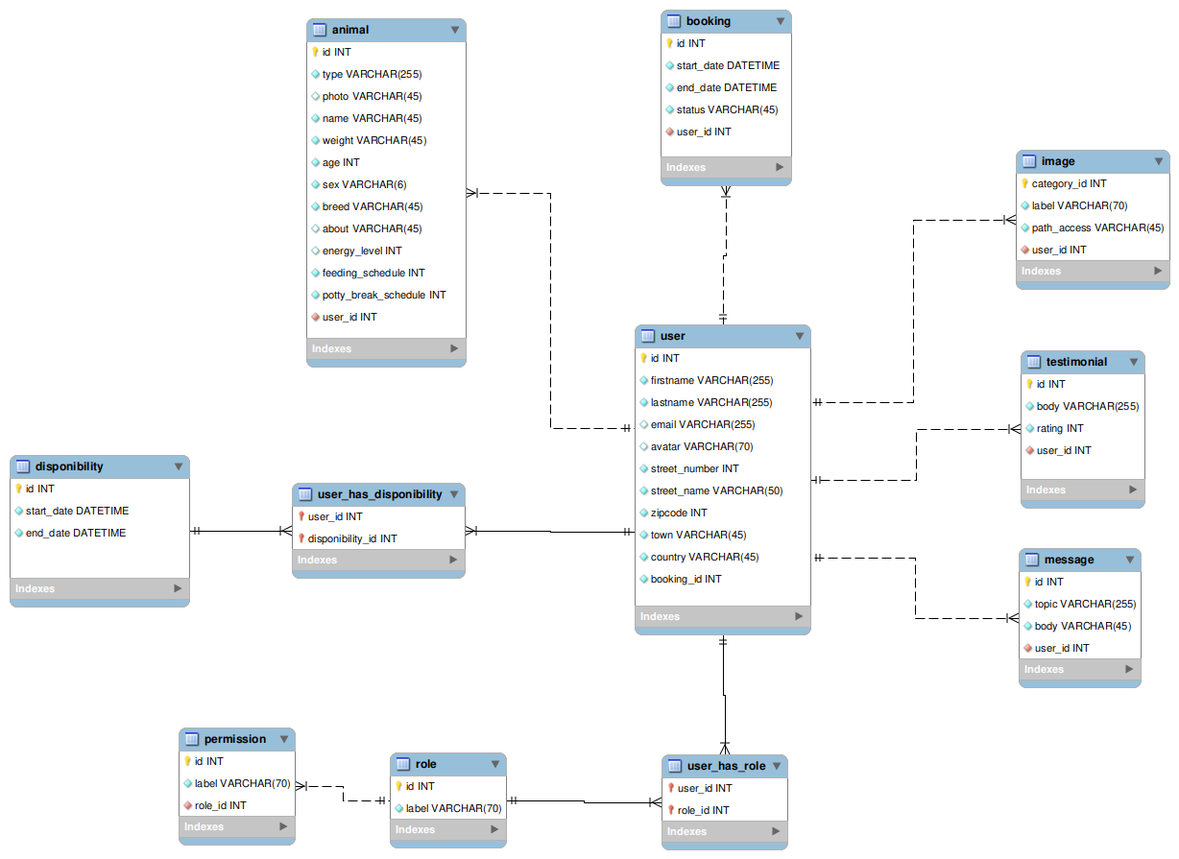
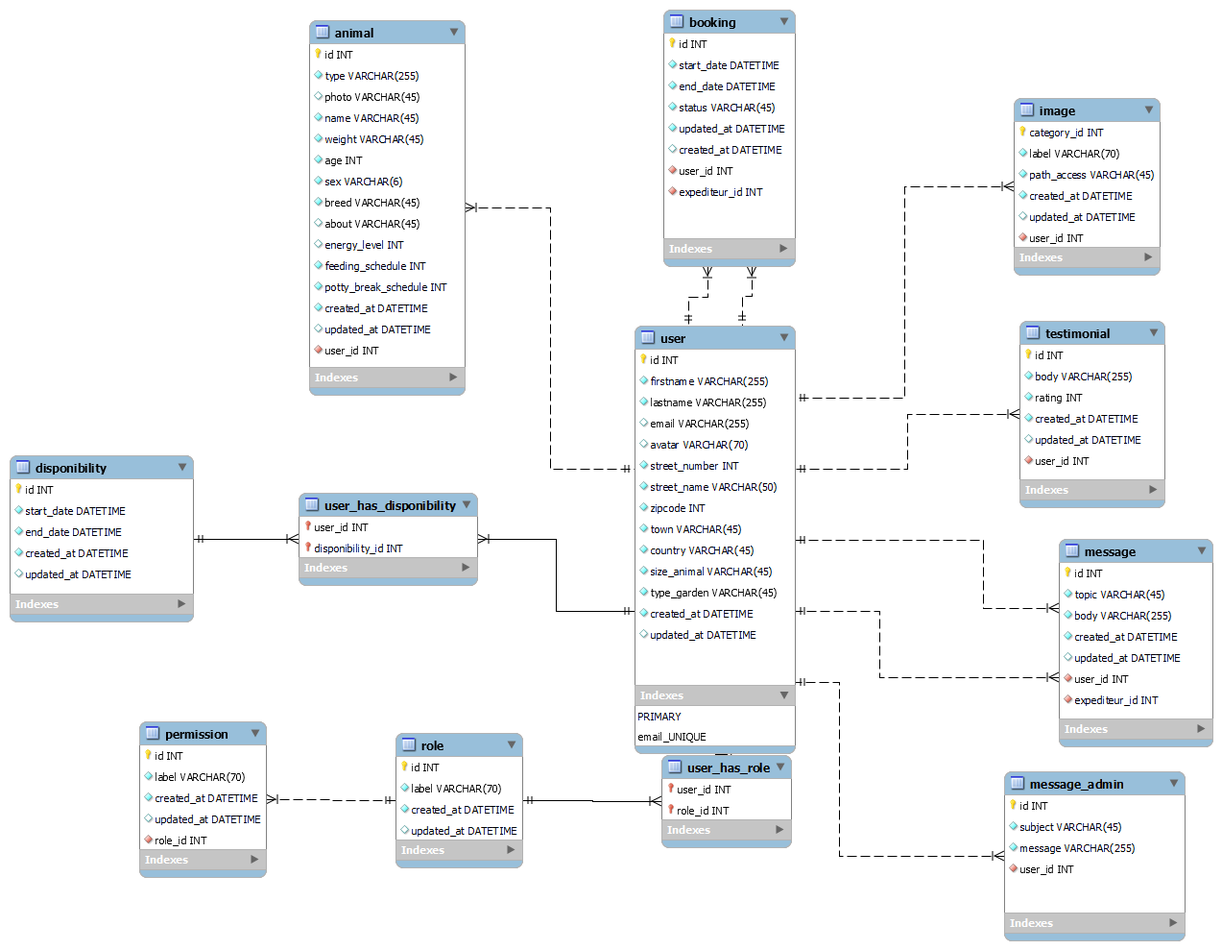
Parcours utilisateur modifié et route en cours

diff --git a/data/data-dictionary.html b/data/data-dictionary.html
@@ -1,0 +1,97 @@
+<!DOCTYPE html>
+<html lang="en">
+<head>
+  <meta charset="UTF-8">
+  <meta name="author" content="ChakibL">
+  <meta name="description" content="mydb Data Dictionary.">
+  <title>mydb Data Dictionary</title>
+  <script src="https://ajax.googleapis.com/ajax/libs/jquery/3.1.0/jquery.min.js"></script>
+  <script>
+    // Highlight table corresponding to the current fragment in the URL.
+    $(document).ready(function(){
+      $("a").click(function() {
+        var elem = $(this);
+        // Remove all classes from tables.
+        $("table").removeClass( "focused" )
+        // Get a.href value and extract its fragment id.
+        var id = elem.attr("href");
+        // Highlight table using fragment id.
+        $(id).addClass( "focused" );
+      });
+    });
+  </script>
+  <style type="text/css">
+    a {
+        text-decoration: none;
+    }
+    abbr {
+        cursor: help;
+    }
+    header {
+        color: #6A6A6A;
+        text-align: right;
+    }
+    table {
+        border-collapse: collapse;
+        margin-bottom: 30px;
+        width: 100%;
+    }
+    table caption {
+        font-size: 120%;
+        font-weight: bold;
+    }
+    table, td, th {
+        border-color: silver;
+        border-style: solid;
+        border-width: 1px;
+    }
+    caption {
+        color: black;
+    }
+    td, th {
+        padding: 1em;
+    }
+    tr:hover {
+        color: #333;
+        background-color: #F2F2F2;
+    }
+    th {
+        background-color: #F5F5F5;
+    }
+    td {
+        color: #6A6A6A;
+    }
+    ul {
+        font-style: italic;
+    }
+    .centered {
+        text-align: center;
+    }
+    .field {
+        color: #4C4C4C;
+        font-weight: bold;
+    }
+    .focused {
+        outline-color: aqua;
+        outline-style: solid;
+        outline-width: thin;
+    }
+  </style>
+</head>
+
+<body>
+  <header>
+    <h1>mydb<br> Data Dictionary</h1>
+    <p>
+      <em>2023-09-21</em>
+    </p>
+    <p>
+      <em></em>
+    </p>
+  </header>
+
+  <nav><h2>Index</h2><ul><li><a href='#animal'>animal</a></li><li><a href='#booking'>booking</a></li><li><a href='#disponibility'>disponibility</a></li><li><a href='#image'>image</a></li><li><a href='#message'>message</a></li><li><a href='#message_admin'>message_admin</a></li><li><a href='#permission'>permission</a></li><li><a href='#role'>role</a></li><li><a href='#testimonial'>testimonial</a></li><li><a href='#user'>user</a></li><li><a href='#user_has_disponibility'>user_has_disponibility</a></li><li><a href='#user_has_role'>user_has_role</a></li></ul></nav>
+
+  <div><table id='animal'><caption>animal</caption><tr><td colspan='12'></td></tr><tr><th>Column name</th><th>DataType</th><th><abbr title='Primary Key'>PK</abbr></th><th><abbr title='Foreign Key'>FK</abbr></th><th><abbr title='Not Null'>NN</abbr></th><th><abbr title='Unique'>UQ</abbr></th><th><abbr title='Binary'>BIN</abbr></th><th><abbr title='Unsigned'>UN</abbr></th><th><abbr title='Zero Fill'>ZF</abbr></th><th><abbr title='Auto Increment'>AI</abbr></th><th>Default</th><th>Comment</th></tr><tr><td class='field'>id</td><td>INT</td><td class='centered'>&#10004;</td><td class='centered'>&nbsp;</td><td class='centered'>&#10004;</td><td class='centered'>&nbsp;</td><td class='centered'>&nbsp;</td><td class='centered'>&nbsp;</td><td class='centered'>&nbsp;</td><td class='centered'>&#10004;</td><td></td><td></td></tr><tr><td class='field'>type</td><td>VARCHAR(255)</td><td class='centered'>&nbsp;</td><td class='centered'>&nbsp;</td><td class='centered'>&#10004;</td><td class='centered'>&nbsp;</td><td class='centered'>&nbsp;</td><td class='centered'>&nbsp;</td><td class='centered'>&nbsp;</td><td class='centered'>&nbsp;</td><td></td><td></td></tr><tr><td class='field'>photo</td><td>VARCHAR(45)</td><td class='centered'>&nbsp;</td><td class='centered'>&nbsp;</td><td class='centered'>&nbsp;</td><td class='centered'>&nbsp;</td><td class='centered'>&nbsp;</td><td class='centered'>&nbsp;</td><td class='centered'>&nbsp;</td><td class='centered'>&nbsp;</td><td></td><td></td></tr><tr><td class='field'>name</td><td>VARCHAR(45)</td><td class='centered'>&nbsp;</td><td class='centered'>&nbsp;</td><td class='centered'>&#10004;</td><td class='centered'>&nbsp;</td><td class='centered'>&nbsp;</td><td class='centered'>&nbsp;</td><td class='centered'>&nbsp;</td><td class='centered'>&nbsp;</td><td></td><td></td></tr><tr><td class='field'>weight</td><td>VARCHAR(45)</td><td class='centered'>&nbsp;</td><td class='centered'>&nbsp;</td><td class='centered'>&#10004;</td><td class='centered'>&nbsp;</td><td class='centered'>&nbsp;</td><td class='centered'>&nbsp;</td><td class='centered'>&nbsp;</td><td class='centered'>&nbsp;</td><td></td><td></td></tr><tr><td class='field'>age</td><td>DATE</td><td class='centered'>&nbsp;</td><td class='centered'>&nbsp;</td><td class='centered'>&#10004;</td><td class='centered'>&nbsp;</td><td class='centered'>&nbsp;</td><td class='centered'>&nbsp;</td><td class='centered'>&nbsp;</td><td class='centered'>&nbsp;</td><td></td><td></td></tr><tr><td class='field'>sex</td><td>VARCHAR(6)</td><td class='centered'>&nbsp;</td><td class='centered'>&nbsp;</td><td class='centered'>&#10004;</td><td class='centered'>&nbsp;</td><td class='centered'>&nbsp;</td><td class='centered'>&nbsp;</td><td class='centered'>&nbsp;</td><td class='centered'>&nbsp;</td><td></td><td></td></tr><tr><td class='field'>breed</td><td>VARCHAR(45)</td><td class='centered'>&nbsp;</td><td class='centered'>&nbsp;</td><td class='centered'>&#10004;</td><td class='centered'>&nbsp;</td><td class='centered'>&nbsp;</td><td class='centered'>&nbsp;</td><td class='centered'>&nbsp;</td><td class='centered'>&nbsp;</td><td></td><td>race</td></tr><tr><td class='field'>about</td><td>VARCHAR(45)</td><td class='centered'>&nbsp;</td><td class='centered'>&nbsp;</td><td class='centered'>&nbsp;</td><td class='centered'>&nbsp;</td><td class='centered'>&nbsp;</td><td class='centered'>&nbsp;</td><td class='centered'>&nbsp;</td><td class='centered'>&nbsp;</td><td></td><td></td></tr><tr><td class='field'>energy_level</td><td>INT</td><td class='centered'>&nbsp;</td><td class='centered'>&nbsp;</td><td class='centered'>&nbsp;</td><td class='centered'>&nbsp;</td><td class='centered'>&nbsp;</td><td class='centered'>&nbsp;</td><td class='centered'>&nbsp;</td><td class='centered'>&nbsp;</td><td></td><td></td></tr><tr><td class='field'>feeding_schedule</td><td>INT</td><td class='centered'>&nbsp;</td><td class='centered'>&nbsp;</td><td class='centered'>&#10004;</td><td class='centered'>&nbsp;</td><td class='centered'>&nbsp;</td><td class='centered'>&nbsp;</td><td class='centered'>&nbsp;</td><td class='centered'>&nbsp;</td><td></td><td></td></tr><tr><td class='field'>potty_break_schedule</td><td>INT</td><td class='centered'>&nbsp;</td><td class='centered'>&nbsp;</td><td class='centered'>&#10004;</td><td class='centered'>&nbsp;</td><td class='centered'>&nbsp;</td><td class='centered'>&nbsp;</td><td class='centered'>&nbsp;</td><td class='centered'>&nbsp;</td><td></td><td></td></tr><tr><td class='field'>created_at</td><td>DATETIME</td><td class='centered'>&nbsp;</td><td class='centered'>&nbsp;</td><td class='centered'>&#10004;</td><td class='centered'>&nbsp;</td><td class='centered'>&nbsp;</td><td class='centered'>&nbsp;</td><td class='centered'>&nbsp;</td><td class='centered'>&nbsp;</td><td></td><td></td></tr><tr><td class='field'>updated_at</td><td>DATETIME</td><td class='centered'>&nbsp;</td><td class='centered'>&nbsp;</td><td class='centered'>&nbsp;</td><td class='centered'>&nbsp;</td><td class='centered'>&nbsp;</td><td class='centered'>&nbsp;</td><td class='centered'>&nbsp;</td><td class='centered'>&nbsp;</td><td></td><td></td></tr><tr><td class='field'>user_id</td><td>INT</td><td class='centered'>&nbsp;</td><td class='centered'><a href='#user'>&#10004;</a></td><td class='centered'>&#10004;</td><td class='centered'>&nbsp;</td><td class='centered'>&nbsp;</td><td class='centered'>&nbsp;</td><td class='centered'>&nbsp;</td><td class='centered'>&nbsp;</td><td></td><td></td></tr></table><table id='booking'><caption>booking</caption><tr><td colspan='12'></td></tr><tr><th>Column name</th><th>DataType</th><th><abbr title='Primary Key'>PK</abbr></th><th><abbr title='Foreign Key'>FK</abbr></th><th><abbr title='Not Null'>NN</abbr></th><th><abbr title='Unique'>UQ</abbr></th><th><abbr title='Binary'>BIN</abbr></th><th><abbr title='Unsigned'>UN</abbr></th><th><abbr title='Zero Fill'>ZF</abbr></th><th><abbr title='Auto Increment'>AI</abbr></th><th>Default</th><th>Comment</th></tr><tr><td class='field'>id</td><td>INT</td><td class='centered'>&#10004;</td><td class='centered'>&nbsp;</td><td class='centered'>&#10004;</td><td class='centered'>&nbsp;</td><td class='centered'>&nbsp;</td><td class='centered'>&nbsp;</td><td class='centered'>&nbsp;</td><td class='centered'>&#10004;</td><td></td><td></td></tr><tr><td class='field'>start_date</td><td>DATETIME</td><td class='centered'>&nbsp;</td><td class='centered'>&nbsp;</td><td class='centered'>&#10004;</td><td class='centered'>&nbsp;</td><td class='centered'>&nbsp;</td><td class='centered'>&nbsp;</td><td class='centered'>&nbsp;</td><td class='centered'>&nbsp;</td><td></td><td></td></tr><tr><td class='field'>end_date</td><td>DATETIME</td><td class='centered'>&nbsp;</td><td class='centered'>&nbsp;</td><td class='centered'>&#10004;</td><td class='centered'>&nbsp;</td><td class='centered'>&nbsp;</td><td class='centered'>&nbsp;</td><td class='centered'>&nbsp;</td><td class='centered'>&nbsp;</td><td></td><td></td></tr><tr><td class='field'>status</td><td>VARCHAR(45)</td><td class='centered'>&nbsp;</td><td class='centered'>&nbsp;</td><td class='centered'>&#10004;</td><td class='centered'>&nbsp;</td><td class='centered'>&nbsp;</td><td class='centered'>&nbsp;</td><td class='centered'>&nbsp;</td><td class='centered'>&nbsp;</td><td></td><td></td></tr><tr><td class='field'>updated_at</td><td>DATETIME</td><td class='centered'>&nbsp;</td><td class='centered'>&nbsp;</td><td class='centered'>&#10004;</td><td class='centered'>&nbsp;</td><td class='centered'>&nbsp;</td><td class='centered'>&nbsp;</td><td class='centered'>&nbsp;</td><td class='centered'>&nbsp;</td><td></td><td></td></tr><tr><td class='field'>created_at</td><td>DATETIME</td><td class='centered'>&nbsp;</td><td class='centered'>&nbsp;</td><td class='centered'>&nbsp;</td><td class='centered'>&nbsp;</td><td class='centered'>&nbsp;</td><td class='centered'>&nbsp;</td><td class='centered'>&nbsp;</td><td class='centered'>&nbsp;</td><td></td><td></td></tr><tr><td class='field'>user_id</td><td>INT</td><td class='centered'>&nbsp;</td><td class='centered'><a href='#user'>&#10004;</a></td><td class='centered'>&#10004;</td><td class='centered'>&nbsp;</td><td class='centered'>&nbsp;</td><td class='centered'>&nbsp;</td><td class='centered'>&nbsp;</td><td class='centered'>&nbsp;</td><td></td><td></td></tr><tr><td class='field'>sender_id</td><td>INT</td><td class='centered'>&nbsp;</td><td class='centered'><a href='#sender'>&#10004;</a></td><td class='centered'>&#10004;</td><td class='centered'>&nbsp;</td><td class='centered'>&nbsp;</td><td class='centered'>&nbsp;</td><td class='centered'>&nbsp;</td><td class='centered'>&nbsp;</td><td></td><td></td></tr></table><table id='disponibility'><caption>disponibility</caption><tr><td colspan='12'></td></tr><tr><th>Column name</th><th>DataType</th><th><abbr title='Primary Key'>PK</abbr></th><th><abbr title='Foreign Key'>FK</abbr></th><th><abbr title='Not Null'>NN</abbr></th><th><abbr title='Unique'>UQ</abbr></th><th><abbr title='Binary'>BIN</abbr></th><th><abbr title='Unsigned'>UN</abbr></th><th><abbr title='Zero Fill'>ZF</abbr></th><th><abbr title='Auto Increment'>AI</abbr></th><th>Default</th><th>Comment</th></tr><tr><td class='field'>id</td><td>INT</td><td class='centered'>&#10004;</td><td class='centered'>&nbsp;</td><td class='centered'>&#10004;</td><td class='centered'>&nbsp;</td><td class='centered'>&nbsp;</td><td class='centered'>&nbsp;</td><td class='centered'>&nbsp;</td><td class='centered'>&#10004;</td><td></td><td></td></tr><tr><td class='field'>start_date</td><td>DATETIME</td><td class='centered'>&nbsp;</td><td class='centered'>&nbsp;</td><td class='centered'>&#10004;</td><td class='centered'>&nbsp;</td><td class='centered'>&nbsp;</td><td class='centered'>&nbsp;</td><td class='centered'>&nbsp;</td><td class='centered'>&nbsp;</td><td></td><td></td></tr><tr><td class='field'>end_date</td><td>DATETIME</td><td class='centered'>&nbsp;</td><td class='centered'>&nbsp;</td><td class='centered'>&#10004;</td><td class='centered'>&nbsp;</td><td class='centered'>&nbsp;</td><td class='centered'>&nbsp;</td><td class='centered'>&nbsp;</td><td class='centered'>&nbsp;</td><td></td><td></td></tr><tr><td class='field'>created_at</td><td>DATETIME</td><td class='centered'>&nbsp;</td><td class='centered'>&nbsp;</td><td class='centered'>&#10004;</td><td class='centered'>&nbsp;</td><td class='centered'>&nbsp;</td><td class='centered'>&nbsp;</td><td class='centered'>&nbsp;</td><td class='centered'>&nbsp;</td><td></td><td></td></tr><tr><td class='field'>updated_at</td><td>DATETIME</td><td class='centered'>&nbsp;</td><td class='centered'>&nbsp;</td><td class='centered'>&nbsp;</td><td class='centered'>&nbsp;</td><td class='centered'>&nbsp;</td><td class='centered'>&nbsp;</td><td class='centered'>&nbsp;</td><td class='centered'>&nbsp;</td><td></td><td></td></tr></table><table id='image'><caption>image</caption><tr><td colspan='12'></td></tr><tr><th>Column name</th><th>DataType</th><th><abbr title='Primary Key'>PK</abbr></th><th><abbr title='Foreign Key'>FK</abbr></th><th><abbr title='Not Null'>NN</abbr></th><th><abbr title='Unique'>UQ</abbr></th><th><abbr title='Binary'>BIN</abbr></th><th><abbr title='Unsigned'>UN</abbr></th><th><abbr title='Zero Fill'>ZF</abbr></th><th><abbr title='Auto Increment'>AI</abbr></th><th>Default</th><th>Comment</th></tr><tr><td class='field'>category_id</td><td>INT</td><td class='centered'>&#10004;</td><td class='centered'>&nbsp;</td><td class='centered'>&#10004;</td><td class='centered'>&nbsp;</td><td class='centered'>&nbsp;</td><td class='centered'>&nbsp;</td><td class='centered'>&nbsp;</td><td class='centered'>&#10004;</td><td></td><td></td></tr><tr><td class='field'>label</td><td>VARCHAR(70)</td><td class='centered'>&nbsp;</td><td class='centered'>&nbsp;</td><td class='centered'>&#10004;</td><td class='centered'>&nbsp;</td><td class='centered'>&nbsp;</td><td class='centered'>&nbsp;</td><td class='centered'>&nbsp;</td><td class='centered'>&nbsp;</td><td></td><td></td></tr><tr><td class='field'>path_access</td><td>VARCHAR(45)</td><td class='centered'>&nbsp;</td><td class='centered'>&nbsp;</td><td class='centered'>&#10004;</td><td class='centered'>&nbsp;</td><td class='centered'>&nbsp;</td><td class='centered'>&nbsp;</td><td class='centered'>&nbsp;</td><td class='centered'>&nbsp;</td><td></td><td></td></tr><tr><td class='field'>created_at</td><td>DATETIME</td><td class='centered'>&nbsp;</td><td class='centered'>&nbsp;</td><td class='centered'>&#10004;</td><td class='centered'>&nbsp;</td><td class='centered'>&nbsp;</td><td class='centered'>&nbsp;</td><td class='centered'>&nbsp;</td><td class='centered'>&nbsp;</td><td></td><td></td></tr><tr><td class='field'>updated_at</td><td>DATETIME</td><td class='centered'>&nbsp;</td><td class='centered'>&nbsp;</td><td class='centered'>&nbsp;</td><td class='centered'>&nbsp;</td><td class='centered'>&nbsp;</td><td class='centered'>&nbsp;</td><td class='centered'>&nbsp;</td><td class='centered'>&nbsp;</td><td></td><td></td></tr><tr><td class='field'>user_id</td><td>INT</td><td class='centered'>&nbsp;</td><td class='centered'><a href='#user'>&#10004;</a></td><td class='centered'>&#10004;</td><td class='centered'>&nbsp;</td><td class='centered'>&nbsp;</td><td class='centered'>&nbsp;</td><td class='centered'>&nbsp;</td><td class='centered'>&nbsp;</td><td></td><td></td></tr></table><table id='message'><caption>message</caption><tr><td colspan='12'></td></tr><tr><th>Column name</th><th>DataType</th><th><abbr title='Primary Key'>PK</abbr></th><th><abbr title='Foreign Key'>FK</abbr></th><th><abbr title='Not Null'>NN</abbr></th><th><abbr title='Unique'>UQ</abbr></th><th><abbr title='Binary'>BIN</abbr></th><th><abbr title='Unsigned'>UN</abbr></th><th><abbr title='Zero Fill'>ZF</abbr></th><th><abbr title='Auto Increment'>AI</abbr></th><th>Default</th><th>Comment</th></tr><tr><td class='field'>id</td><td>INT</td><td class='centered'>&#10004;</td><td class='centered'>&nbsp;</td><td class='centered'>&#10004;</td><td class='centered'>&nbsp;</td><td class='centered'>&nbsp;</td><td class='centered'>&nbsp;</td><td class='centered'>&nbsp;</td><td class='centered'>&#10004;</td><td></td><td></td></tr><tr><td class='field'>topic</td><td>VARCHAR(45)</td><td class='centered'>&nbsp;</td><td class='centered'>&nbsp;</td><td class='centered'>&#10004;</td><td class='centered'>&nbsp;</td><td class='centered'>&nbsp;</td><td class='centered'>&nbsp;</td><td class='centered'>&nbsp;</td><td class='centered'>&nbsp;</td><td></td><td></td></tr><tr><td class='field'>body</td><td>LONGTEXT</td><td class='centered'>&nbsp;</td><td class='centered'>&nbsp;</td><td class='centered'>&#10004;</td><td class='centered'>&nbsp;</td><td class='centered'>&nbsp;</td><td class='centered'>&nbsp;</td><td class='centered'>&nbsp;</td><td class='centered'>&nbsp;</td><td></td><td></td></tr><tr><td class='field'>created_at</td><td>DATETIME</td><td class='centered'>&nbsp;</td><td class='centered'>&nbsp;</td><td class='centered'>&#10004;</td><td class='centered'>&nbsp;</td><td class='centered'>&nbsp;</td><td class='centered'>&nbsp;</td><td class='centered'>&nbsp;</td><td class='centered'>&nbsp;</td><td></td><td></td></tr><tr><td class='field'>updated_at</td><td>DATETIME</td><td class='centered'>&nbsp;</td><td class='centered'>&nbsp;</td><td class='centered'>&nbsp;</td><td class='centered'>&nbsp;</td><td class='centered'>&nbsp;</td><td class='centered'>&nbsp;</td><td class='centered'>&nbsp;</td><td class='centered'>&nbsp;</td><td></td><td></td></tr><tr><td class='field'>user_id</td><td>INT</td><td class='centered'>&nbsp;</td><td class='centered'><a href='#user'>&#10004;</a></td><td class='centered'>&#10004;</td><td class='centered'>&nbsp;</td><td class='centered'>&nbsp;</td><td class='centered'>&nbsp;</td><td class='centered'>&nbsp;</td><td class='centered'>&nbsp;</td><td></td><td></td></tr><tr><td class='field'>sender_id</td><td>INT</td><td class='centered'>&nbsp;</td><td class='centered'><a href='#sender'>&#10004;</a></td><td class='centered'>&#10004;</td><td class='centered'>&nbsp;</td><td class='centered'>&nbsp;</td><td class='centered'>&nbsp;</td><td class='centered'>&nbsp;</td><td class='centered'>&nbsp;</td><td></td><td></td></tr></table><table id='message_admin'><caption>message_admin</caption><tr><td colspan='12'></td></tr><tr><th>Column name</th><th>DataType</th><th><abbr title='Primary Key'>PK</abbr></th><th><abbr title='Foreign Key'>FK</abbr></th><th><abbr title='Not Null'>NN</abbr></th><th><abbr title='Unique'>UQ</abbr></th><th><abbr title='Binary'>BIN</abbr></th><th><abbr title='Unsigned'>UN</abbr></th><th><abbr title='Zero Fill'>ZF</abbr></th><th><abbr title='Auto Increment'>AI</abbr></th><th>Default</th><th>Comment</th></tr><tr><td class='field'>id</td><td>INT</td><td class='centered'>&#10004;</td><td class='centered'>&nbsp;</td><td class='centered'>&#10004;</td><td class='centered'>&nbsp;</td><td class='centered'>&nbsp;</td><td class='centered'>&nbsp;</td><td class='centered'>&nbsp;</td><td class='centered'>&#10004;</td><td></td><td></td></tr><tr><td class='field'>subject</td><td>VARCHAR(45)</td><td class='centered'>&nbsp;</td><td class='centered'>&nbsp;</td><td class='centered'>&#10004;</td><td class='centered'>&nbsp;</td><td class='centered'>&nbsp;</td><td class='centered'>&nbsp;</td><td class='centered'>&nbsp;</td><td class='centered'>&nbsp;</td><td></td><td></td></tr><tr><td class='field'>message</td><td>LONGTEXT</td><td class='centered'>&nbsp;</td><td class='centered'>&nbsp;</td><td class='centered'>&#10004;</td><td class='centered'>&nbsp;</td><td class='centered'>&nbsp;</td><td class='centered'>&nbsp;</td><td class='centered'>&nbsp;</td><td class='centered'>&nbsp;</td><td></td><td></td></tr><tr><td class='field'>user_id</td><td>INT</td><td class='centered'>&nbsp;</td><td class='centered'><a href='#user'>&#10004;</a></td><td class='centered'>&#10004;</td><td class='centered'>&nbsp;</td><td class='centered'>&nbsp;</td><td class='centered'>&nbsp;</td><td class='centered'>&nbsp;</td><td class='centered'>&nbsp;</td><td></td><td></td></tr></table><table id='permission'><caption>permission</caption><tr><td colspan='12'></td></tr><tr><th>Column name</th><th>DataType</th><th><abbr title='Primary Key'>PK</abbr></th><th><abbr title='Foreign Key'>FK</abbr></th><th><abbr title='Not Null'>NN</abbr></th><th><abbr title='Unique'>UQ</abbr></th><th><abbr title='Binary'>BIN</abbr></th><th><abbr title='Unsigned'>UN</abbr></th><th><abbr title='Zero Fill'>ZF</abbr></th><th><abbr title='Auto Increment'>AI</abbr></th><th>Default</th><th>Comment</th></tr><tr><td class='field'>id</td><td>INT</td><td class='centered'>&#10004;</td><td class='centered'>&nbsp;</td><td class='centered'>&#10004;</td><td class='centered'>&nbsp;</td><td class='centered'>&nbsp;</td><td class='centered'>&nbsp;</td><td class='centered'>&nbsp;</td><td class='centered'>&#10004;</td><td></td><td></td></tr><tr><td class='field'>label</td><td>VARCHAR(70)</td><td class='centered'>&nbsp;</td><td class='centered'>&nbsp;</td><td class='centered'>&#10004;</td><td class='centered'>&nbsp;</td><td class='centered'>&nbsp;</td><td class='centered'>&nbsp;</td><td class='centered'>&nbsp;</td><td class='centered'>&nbsp;</td><td></td><td></td></tr><tr><td class='field'>created_at</td><td>DATETIME</td><td class='centered'>&nbsp;</td><td class='centered'>&nbsp;</td><td class='centered'>&#10004;</td><td class='centered'>&nbsp;</td><td class='centered'>&nbsp;</td><td class='centered'>&nbsp;</td><td class='centered'>&nbsp;</td><td class='centered'>&nbsp;</td><td></td><td></td></tr><tr><td class='field'>updated_at</td><td>DATETIME</td><td class='centered'>&nbsp;</td><td class='centered'>&nbsp;</td><td class='centered'>&nbsp;</td><td class='centered'>&nbsp;</td><td class='centered'>&nbsp;</td><td class='centered'>&nbsp;</td><td class='centered'>&nbsp;</td><td class='centered'>&nbsp;</td><td></td><td></td></tr><tr><td class='field'>role_id</td><td>INT</td><td class='centered'>&nbsp;</td><td class='centered'><a href='#role'>&#10004;</a></td><td class='centered'>&#10004;</td><td class='centered'>&nbsp;</td><td class='centered'>&nbsp;</td><td class='centered'>&nbsp;</td><td class='centered'>&nbsp;</td><td class='centered'>&nbsp;</td><td></td><td></td></tr></table><table id='role'><caption>role</caption><tr><td colspan='12'></td></tr><tr><th>Column name</th><th>DataType</th><th><abbr title='Primary Key'>PK</abbr></th><th><abbr title='Foreign Key'>FK</abbr></th><th><abbr title='Not Null'>NN</abbr></th><th><abbr title='Unique'>UQ</abbr></th><th><abbr title='Binary'>BIN</abbr></th><th><abbr title='Unsigned'>UN</abbr></th><th><abbr title='Zero Fill'>ZF</abbr></th><th><abbr title='Auto Increment'>AI</abbr></th><th>Default</th><th>Comment</th></tr><tr><td class='field'>id</td><td>INT</td><td class='centered'>&#10004;</td><td class='centered'>&nbsp;</td><td class='centered'>&#10004;</td><td class='centered'>&nbsp;</td><td class='centered'>&nbsp;</td><td class='centered'>&nbsp;</td><td class='centered'>&nbsp;</td><td class='centered'>&#10004;</td><td></td><td></td></tr><tr><td class='field'>label</td><td>VARCHAR(70)</td><td class='centered'>&nbsp;</td><td class='centered'>&nbsp;</td><td class='centered'>&#10004;</td><td class='centered'>&nbsp;</td><td class='centered'>&nbsp;</td><td class='centered'>&nbsp;</td><td class='centered'>&nbsp;</td><td class='centered'>&nbsp;</td><td></td><td></td></tr><tr><td class='field'>created_at</td><td>DATETIME</td><td class='centered'>&nbsp;</td><td class='centered'>&nbsp;</td><td class='centered'>&#10004;</td><td class='centered'>&nbsp;</td><td class='centered'>&nbsp;</td><td class='centered'>&nbsp;</td><td class='centered'>&nbsp;</td><td class='centered'>&nbsp;</td><td></td><td></td></tr><tr><td class='field'>updated_at</td><td>DATETIME</td><td class='centered'>&nbsp;</td><td class='centered'>&nbsp;</td><td class='centered'>&nbsp;</td><td class='centered'>&nbsp;</td><td class='centered'>&nbsp;</td><td class='centered'>&nbsp;</td><td class='centered'>&nbsp;</td><td class='centered'>&nbsp;</td><td></td><td></td></tr></table><table id='testimonial'><caption>testimonial</caption><tr><td colspan='12'></td></tr><tr><th>Column name</th><th>DataType</th><th><abbr title='Primary Key'>PK</abbr></th><th><abbr title='Foreign Key'>FK</abbr></th><th><abbr title='Not Null'>NN</abbr></th><th><abbr title='Unique'>UQ</abbr></th><th><abbr title='Binary'>BIN</abbr></th><th><abbr title='Unsigned'>UN</abbr></th><th><abbr title='Zero Fill'>ZF</abbr></th><th><abbr title='Auto Increment'>AI</abbr></th><th>Default</th><th>Comment</th></tr><tr><td class='field'>id</td><td>INT</td><td class='centered'>&#10004;</td><td class='centered'>&nbsp;</td><td class='centered'>&#10004;</td><td class='centered'>&nbsp;</td><td class='centered'>&nbsp;</td><td class='centered'>&nbsp;</td><td class='centered'>&nbsp;</td><td class='centered'>&#10004;</td><td></td><td></td></tr><tr><td class='field'>body</td><td>VARCHAR(255)</td><td class='centered'>&nbsp;</td><td class='centered'>&nbsp;</td><td class='centered'>&#10004;</td><td class='centered'>&nbsp;</td><td class='centered'>&nbsp;</td><td class='centered'>&nbsp;</td><td class='centered'>&nbsp;</td><td class='centered'>&nbsp;</td><td></td><td></td></tr><tr><td class='field'>rating</td><td>INT</td><td class='centered'>&nbsp;</td><td class='centered'>&nbsp;</td><td class='centered'>&#10004;</td><td class='centered'>&nbsp;</td><td class='centered'>&nbsp;</td><td class='centered'>&nbsp;</td><td class='centered'>&nbsp;</td><td class='centered'>&nbsp;</td><td></td><td></td></tr><tr><td class='field'>created_at</td><td>DATETIME</td><td class='centered'>&nbsp;</td><td class='centered'>&nbsp;</td><td class='centered'>&#10004;</td><td class='centered'>&nbsp;</td><td class='centered'>&nbsp;</td><td class='centered'>&nbsp;</td><td class='centered'>&nbsp;</td><td class='centered'>&nbsp;</td><td></td><td></td></tr><tr><td class='field'>updated_at</td><td>DATETIME</td><td class='centered'>&nbsp;</td><td class='centered'>&nbsp;</td><td class='centered'>&nbsp;</td><td class='centered'>&nbsp;</td><td class='centered'>&nbsp;</td><td class='centered'>&nbsp;</td><td class='centered'>&nbsp;</td><td class='centered'>&nbsp;</td><td></td><td></td></tr><tr><td class='field'>user_id</td><td>INT</td><td class='centered'>&nbsp;</td><td class='centered'><a href='#user'>&#10004;</a></td><td class='centered'>&#10004;</td><td class='centered'>&nbsp;</td><td class='centered'>&nbsp;</td><td class='centered'>&nbsp;</td><td class='centered'>&nbsp;</td><td class='centered'>&nbsp;</td><td></td><td></td></tr></table><table id='user'><caption>user</caption><tr><td colspan='12'></td></tr><tr><th>Column name</th><th>DataType</th><th><abbr title='Primary Key'>PK</abbr></th><th><abbr title='Foreign Key'>FK</abbr></th><th><abbr title='Not Null'>NN</abbr></th><th><abbr title='Unique'>UQ</abbr></th><th><abbr title='Binary'>BIN</abbr></th><th><abbr title='Unsigned'>UN</abbr></th><th><abbr title='Zero Fill'>ZF</abbr></th><th><abbr title='Auto Increment'>AI</abbr></th><th>Default</th><th>Comment</th></tr><tr><td class='field'>id</td><td>INT</td><td class='centered'>&#10004;</td><td class='centered'>&nbsp;</td><td class='centered'>&#10004;</td><td class='centered'>&nbsp;</td><td class='centered'>&nbsp;</td><td class='centered'>&nbsp;</td><td class='centered'>&nbsp;</td><td class='centered'>&#10004;</td><td></td><td></td></tr><tr><td class='field'>firstname</td><td>VARCHAR(255)</td><td class='centered'>&nbsp;</td><td class='centered'>&nbsp;</td><td class='centered'>&#10004;</td><td class='centered'>&nbsp;</td><td class='centered'>&nbsp;</td><td class='centered'>&nbsp;</td><td class='centered'>&nbsp;</td><td class='centered'>&nbsp;</td><td></td><td></td></tr><tr><td class='field'>lastname</td><td>VARCHAR(255)</td><td class='centered'>&nbsp;</td><td class='centered'>&nbsp;</td><td class='centered'>&#10004;</td><td class='centered'>&nbsp;</td><td class='centered'>&nbsp;</td><td class='centered'>&nbsp;</td><td class='centered'>&nbsp;</td><td class='centered'>&nbsp;</td><td></td><td></td></tr><tr><td class='field'>email</td><td>VARCHAR(255)</td><td class='centered'>&nbsp;</td><td class='centered'>&nbsp;</td><td class='centered'>&nbsp;</td><td class='centered'>&#10004;</td><td class='centered'>&nbsp;</td><td class='centered'>&nbsp;</td><td class='centered'>&nbsp;</td><td class='centered'>&nbsp;</td><td>CURRENT_TIMESTAMP</td><td></td></tr><tr><td class='field'>birth_date</td><td>DATE</td><td class='centered'>&nbsp;</td><td class='centered'>&nbsp;</td><td class='centered'>&#10004;</td><td class='centered'>&nbsp;</td><td class='centered'>&nbsp;</td><td class='centered'>&nbsp;</td><td class='centered'>&nbsp;</td><td class='centered'>&nbsp;</td><td></td><td></td></tr><tr><td class='field'>avatar</td><td>VARCHAR(70)</td><td class='centered'>&nbsp;</td><td class='centered'>&nbsp;</td><td class='centered'>&nbsp;</td><td class='centered'>&nbsp;</td><td class='centered'>&nbsp;</td><td class='centered'>&nbsp;</td><td class='centered'>&nbsp;</td><td class='centered'>&nbsp;</td><td></td><td></td></tr><tr><td class='field'>street_number</td><td>INT</td><td class='centered'>&nbsp;</td><td class='centered'>&nbsp;</td><td class='centered'>&#10004;</td><td class='centered'>&nbsp;</td><td class='centered'>&nbsp;</td><td class='centered'>&nbsp;</td><td class='centered'>&nbsp;</td><td class='centered'>&nbsp;</td><td></td><td></td></tr><tr><td class='field'>street_name</td><td>VARCHAR(50)</td><td class='centered'>&nbsp;</td><td class='centered'>&nbsp;</td><td class='centered'>&#10004;</td><td class='centered'>&nbsp;</td><td class='centered'>&nbsp;</td><td class='centered'>&nbsp;</td><td class='centered'>&nbsp;</td><td class='centered'>&nbsp;</td><td></td><td></td></tr><tr><td class='field'>zipcode</td><td>INT</td><td class='centered'>&nbsp;</td><td class='centered'>&nbsp;</td><td class='centered'>&#10004;</td><td class='centered'>&nbsp;</td><td class='centered'>&nbsp;</td><td class='centered'>&nbsp;</td><td class='centered'>&nbsp;</td><td class='centered'>&nbsp;</td><td></td><td></td></tr><tr><td class='field'>town</td><td>VARCHAR(45)</td><td class='centered'>&nbsp;</td><td class='centered'>&nbsp;</td><td class='centered'>&#10004;</td><td class='centered'>&nbsp;</td><td class='centered'>&nbsp;</td><td class='centered'>&nbsp;</td><td class='centered'>&nbsp;</td><td class='centered'>&nbsp;</td><td></td><td></td></tr><tr><td class='field'>country</td><td>VARCHAR(45)</td><td class='centered'>&nbsp;</td><td class='centered'>&nbsp;</td><td class='centered'>&#10004;</td><td class='centered'>&nbsp;</td><td class='centered'>&nbsp;</td><td class='centered'>&nbsp;</td><td class='centered'>&nbsp;</td><td class='centered'>&nbsp;</td><td></td><td></td></tr><tr><td class='field'>size_animal</td><td>VARCHAR(45)</td><td class='centered'>&nbsp;</td><td class='centered'>&nbsp;</td><td class='centered'>&#10004;</td><td class='centered'>&nbsp;</td><td class='centered'>&nbsp;</td><td class='centered'>&nbsp;</td><td class='centered'>&nbsp;</td><td class='centered'>&nbsp;</td><td></td><td></td></tr><tr><td class='field'>type_garden</td><td>VARCHAR(45)</td><td class='centered'>&nbsp;</td><td class='centered'>&nbsp;</td><td class='centered'>&#10004;</td><td class='centered'>&nbsp;</td><td class='centered'>&nbsp;</td><td class='centered'>&nbsp;</td><td class='centered'>&nbsp;</td><td class='centered'>&nbsp;</td><td></td><td></td></tr><tr><td class='field'>created_at</td><td>DATETIME</td><td class='centered'>&nbsp;</td><td class='centered'>&nbsp;</td><td class='centered'>&#10004;</td><td class='centered'>&nbsp;</td><td class='centered'>&nbsp;</td><td class='centered'>&nbsp;</td><td class='centered'>&nbsp;</td><td class='centered'>&nbsp;</td><td></td><td></td></tr><tr><td class='field'>updated_at</td><td>DATETIME</td><td class='centered'>&nbsp;</td><td class='centered'>&nbsp;</td><td class='centered'>&nbsp;</td><td class='centered'>&nbsp;</td><td class='centered'>&nbsp;</td><td class='centered'>&nbsp;</td><td class='centered'>&nbsp;</td><td class='centered'>&nbsp;</td><td></td><td></td></tr></table><table id='user_has_disponibility'><caption>user_has_disponibility</caption><tr><td colspan='12'></td></tr><tr><th>Column name</th><th>DataType</th><th><abbr title='Primary Key'>PK</abbr></th><th><abbr title='Foreign Key'>FK</abbr></th><th><abbr title='Not Null'>NN</abbr></th><th><abbr title='Unique'>UQ</abbr></th><th><abbr title='Binary'>BIN</abbr></th><th><abbr title='Unsigned'>UN</abbr></th><th><abbr title='Zero Fill'>ZF</abbr></th><th><abbr title='Auto Increment'>AI</abbr></th><th>Default</th><th>Comment</th></tr><tr><td class='field'>user_id</td><td>INT</td><td class='centered'>&#10004;</td><td class='centered'><a href='#user'>&#10004;</a></td><td class='centered'>&#10004;</td><td class='centered'>&nbsp;</td><td class='centered'>&nbsp;</td><td class='centered'>&nbsp;</td><td class='centered'>&nbsp;</td><td class='centered'>&nbsp;</td><td></td><td></td></tr><tr><td class='field'>disponibility_id</td><td>INT</td><td class='centered'>&#10004;</td><td class='centered'><a href='#disponibility'>&#10004;</a></td><td class='centered'>&#10004;</td><td class='centered'>&nbsp;</td><td class='centered'>&nbsp;</td><td class='centered'>&nbsp;</td><td class='centered'>&nbsp;</td><td class='centered'>&nbsp;</td><td></td><td></td></tr></table><table id='user_has_role'><caption>user_has_role</caption><tr><td colspan='12'></td></tr><tr><th>Column name</th><th>DataType</th><th><abbr title='Primary Key'>PK</abbr></th><th><abbr title='Foreign Key'>FK</abbr></th><th><abbr title='Not Null'>NN</abbr></th><th><abbr title='Unique'>UQ</abbr></th><th><abbr title='Binary'>BIN</abbr></th><th><abbr title='Unsigned'>UN</abbr></th><th><abbr title='Zero Fill'>ZF</abbr></th><th><abbr title='Auto Increment'>AI</abbr></th><th>Default</th><th>Comment</th></tr><tr><td class='field'>user_id</td><td>INT</td><td class='centered'>&#10004;</td><td class='centered'><a href='#user'>&#10004;</a></td><td class='centered'>&#10004;</td><td class='centered'>&nbsp;</td><td class='centered'>&nbsp;</td><td class='centered'>&nbsp;</td><td class='centered'>&nbsp;</td><td class='centered'>&nbsp;</td><td></td><td></td></tr><tr><td class='field'>role_id</td><td>INT</td><td class='centered'>&#10004;</td><td class='centered'><a href='#role'>&#10004;</a></td><td class='centered'>&#10004;</td><td class='centered'>&nbsp;</td><td class='centered'>&nbsp;</td><td class='centered'>&nbsp;</td><td class='centered'>&nbsp;</td><td class='centered'>&nbsp;</td><td></td><td></td></tr></table></div>
+</body>
+</html>

diff --git a/developpement/cdc.md b/developpement/cdc.md
@@ -73,7 +73,9 @@ D'autres options tels que les activités canines proposées par les accueillants
 | `/search` | Affiche la liste des utilisateurs trouvés selon les ccritères de recherche |
 |Routes membres|---|
 | `/pet-sitter/id` | Affichage du pet sitter sélectionné par l'id |
+| `/pet-sitter/id/reservation` | Envoyer une demande de réservation au pet-sitter correspondant |
 | `/account/id` | Affichage du profil de l'utilisateur loggé avec son compte |
+| `/account/id/addanimal` | Ajout d'un animal au pet-sitter correspondant |
 | `/account/id/inbox` | Affcihage de la liste des demandes en attentes |
 | `/account/id/inbox/upcoming` | Affcihage de la liste des demandes à venir  |
 | `/account/id/inbox/past` | Affcihage de la liste des demandes passées |
@@ -94,11 +96,20 @@ D'autres options tels que les activités canines proposées par les accueillants
 | `/search` | GET | Liste des utilisateurs | Récupère les utilisateurs des doggers proches et afficher sur la map|
 | `/search` | POST | Refaire une recherche | Modifiez le filtre de recherche |
 |Routes membres|---|---|---|
-| `/account` | GET | Affichage du profil de l'utilisateur | Récupérer les données du profil|
-| `/account` | PATCH | Modification des données personnelles (prénom, email, téléphone) | Modifier les données personnelles (prénom, email, téléphone)|
+| `/account/:id` | GET | Affichage du profil de l'utilisateur | Récupérer les données du profil|
+| `/account/:id` | PATCH | Modification des données personnelles (prénom, email, téléphone) | Modifier les données personnelles |
+| `/account/:id/addanimal` |GET | Affichage du formulaire d'ajoute d'animal | / |
+| `/account/:id/addanimal` |POST | Envoie du formulaire d'ajoute d'animal | Données concernant l'animal |
 | `/inbox` | GET | Liste des demandes en attente, en cours, à venir et passées | Affichage des demandes en attente, en cours, à venir et passées|
-| `/pet-sitter` | GET | Affichage du pet sitter | Récupère la page de profil du pet sitter|
-| `/pet-sitter` | PATCH | Modification du profil pet sitter  | Modification du calendrier et des commentaires|
+| `/pet-sitter/:id` | GET | Affichage du pet sitter | Récupère la page de profil du pet sitter|
+| `/pet-sitter/:id` | PATCH | Modification du profil pet sitter  | Modification du calendrier et des commentaires|
+| `/pet-sitter/:id/reservation` | GET | Affichage du formulaire de réservation | Afficher les informations de l'utilisateur qui réserve avec animal et du pet sitter |
+| `/pet-sitter/:id/reservation` | POST | Enoive du formulaire de réservation | Envoyer des données de réservation |
+
+| `/account/:id/inbox` |GET | Affichage du formulaire & homepage | Affcihage de la liste des demandes en attentes |
+| `/account/:id/inbox/upcoming` |GET | Affichage du formulaire & homepage | Affcihage de la liste des demandes à venir  |
+| `/account/:id/inbox/past` |GET | Affichage du formulaire & homepage | Affcihage de la liste des demandes passées |
+
 
 ## User stories
 
@@ -151,13 +162,11 @@ D'autres options tels que les activités canines proposées par les accueillants
 ## Rôle de chacun
 
 - Product owner : Ilias YAKDANE
-- Scrum master : 
-- Lead dev : 
-- Git master : 
-- Référent tech : 
-    - API.gouv / vicolo :
-    - react-calendar 
-    - Leaflet / Google Map / HERE : 
+- Scrum master : IBNAICHE Soufiane
+- Lead dev : front : Karina ZAKHARIAN / back : Ilias YAKDANE
+- Git master : David VIAU
+- Référent tech : Soufiane IBNAICHE / David VIAU
+
 
 
 ## Documents relatif à la BDD
@@ -189,11 +198,11 @@ D'autres options tels que les activités canines proposées par les accueillants
 | type | VARCHAR(255) | NOT NULL | espèce de l'animal :chien ou chat |
 | photo | VARCHAR(45) | NOT NULL, UNIQUE | image de l'animal, chemin accès à la photo |
 | name | VARCHAR(45) | NOT NULL | nom de l'animal |
-| weight | VARCHAR(45) | - | poids de l'animal en kg |
-| age | INTEGER | - | age de l'animal |
+| weight_category | VARCHAR(45) | - | Categorie de poids de l'animal |
+| age | DATE | - | Date de naissance de l'animal |
 | sex | VARCHAR(6) | mâle ou femelle | sexe de l'animal |
 | breed | VARCHAR(45) | - |  race de l'animal |
-| about | VARCHAR(45) | - | description de l'animal |
+| about | LONGTEXT | - | description de l'animal |
 | energy_level | INTEGER | - |  niveau d'activité/dépense de l'animal |
 | feeding_schedule | INTEGER ou TIME? | NOT NULL |  créneau d'alimentation |
 | potty_break_schedule | INTEGER ou TIME? | - |  créneau concernant les besoins |
@@ -208,6 +217,7 @@ D'autres options tels que les activités canines proposées par les accueillants
 | end_date | DATETIME | NOT NULL, UNIQUE, GreaterThan start_date | Date à laquelle la réservation prend fin |
 | status | VARCHAR(45) | NOT NULL, DEFAULT "En ATTENTE" | Statut de la réservation : en attente, acceptée, finie |
 | user_id | INTEGER | NOT NULL, FOREIGN KEY user(id) | Clé étrangère référant à l'utilisateur qui aura en charge l'hébergement |
+| sender_id | INTEGER | NOT NULL, FOREIGN KEY user(id) | Clé étrangère référant à l'utilisateur qui fait la demande |
 
 ##### Table disponibility
 
@@ -224,15 +234,18 @@ D'autres options tels que les activités canines proposées par les accueillants
 | id | INTEGER | PRIMARY KEY, NOT NULL, AUTO_INCREMENT | Identifiant de l'image |
 | label | VARCHAR(70) | NOT NULL | Libellé de l'image |
 | path_access | VARCHAR(45) | NOT NULL | Chemin d'accès de l'image : sotckée dans répertoire public |
+| user_id | INT |  FOREIGN KEY user(id)| Clé étrangère référant à l'utilisateur qui a ajouté une photo |
 
 ##### Table message
 
 | Champ | Type  | Spécifités | Description |
 |---------|---------|---------|---------|
 | id | INTEGER | PRIMARY KEY, NOT NULL, AUTO_INCREMENT |  Identifiant du message |
-| topic | VARCHAR(255) | NOT NULL | Sujet du message |
-| body | VARCHAR(45) | NOT NULL | Contenu du message |
-| user_id | INTEGER | NOT NULL, FOREIGN KEY user(id) |  Clé étrangère liée à l'expéditeur du message |
+| topic | VARCHAR(45) | NOT NULL | Sujet du message |
+| body | LONGTEXT | NOT NULL | Contenu du message |
+| recipient_id | INTEGER | NOT NULL, FOREIGN KEY user(id) |  Clé étrangère liée au destinataire du message |
+| sender_id | INTEGER | NOT NULL, FOREIGN KEY user(id) |  Clé étrangère liée au l'expéditeur du message |
+
 
 ##### Table permission
 
@@ -257,6 +270,7 @@ D'autres options tels que les activités canines proposées par les accueillants
 | id | INTEGER | PRIMARY KEY, NOT NULL |  |
 | firstname  | VARCHAR(255) | NOT NULL | prénom de l'utilisateur  |
 | lastname  | VARCHAR(255) | NOT NULL | nom de l'utilisateur  |
+| birth_date  | DATE | NOT NULL | date de naissance de l''utilisateur |
 | email  | VARCHAR(255) | NOT NULL | email de l'utilisateur  |
 | avatar | VARCHAR(70) | -- | avatar de l'utilisateur  |
 | street_number  | INTEGER | -- | numéro d'adresse  |
@@ -264,4 +278,11 @@ D'autres options tels que les activités canines proposées par les accueillants
 | zipcode  | INTEGER | -- | Code postal  |
 | town  | VARCHAR(45) | -- | Ville  |
 | country  | VARCHAR(45) | --  | Pays   |
-| booking_id | INTEGER | REFERENCES | FOREIGN KEY  |
+
+##### Table message_admin
+
+| Champ | Type  | Spécifités | Description |
+|---------|---------|---------|---------|
+| id | INTEGER | PRIMARY KEY, NOT NULL |  |
+| subject | VARCHAR(45)   | NOT NULL  | sujet du message |
+| message | LONGTEXT   | NOT NULL  | message de l'utilisateur |

diff --git a/carnet_de_bord/Sprint_0.md b/carnet_de_bord/Sprint_0.md
@@ -18,4 +18,14 @@
 
 # J4 20/09
 
+- Nous avons définit les rôles de chacun
+- Nous avons travaillé sur les wireframes du site en utilisant l'arborescence 
+- Présentation du projet à Chris et Amaury
+- Echange concernant les différensts points à modifier 
+- Travail en binome pour apporter les changements
+
 # J5 21/09
+
+- Mise au point : Nous avons refait le point sur les différents éléments modifier après le passage D'Amaury et Chris ( wireframe, MCD, MPD, data dictionary, routes et arborescence).
+- Objectif matinal : Travailler sur l'arborescence, revoir les routes, avancement sur les wireframes
+- On met le github à plat, on merge tout le projet sur la branche main
